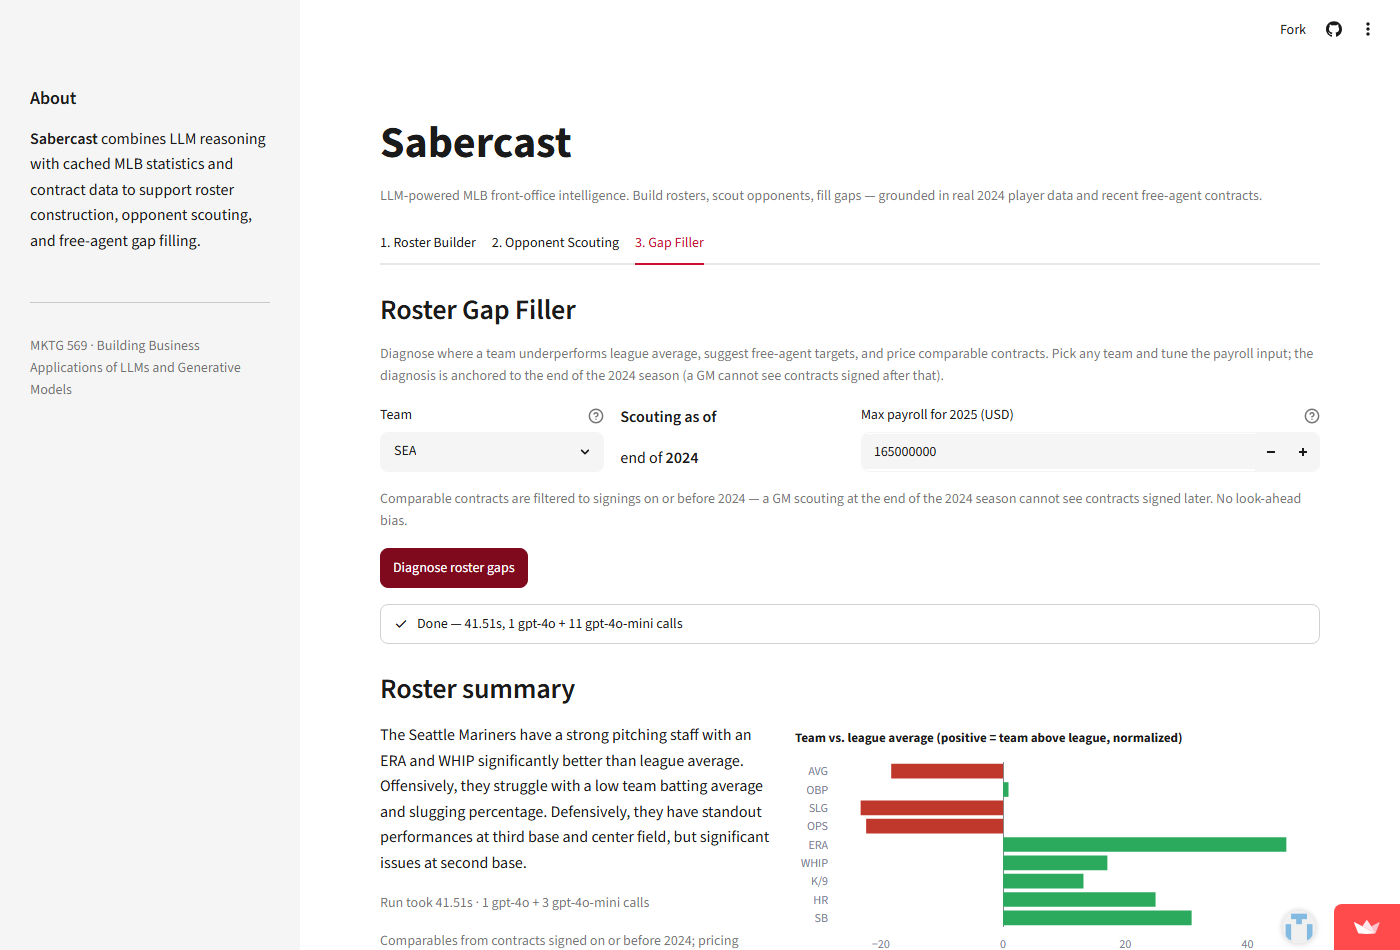
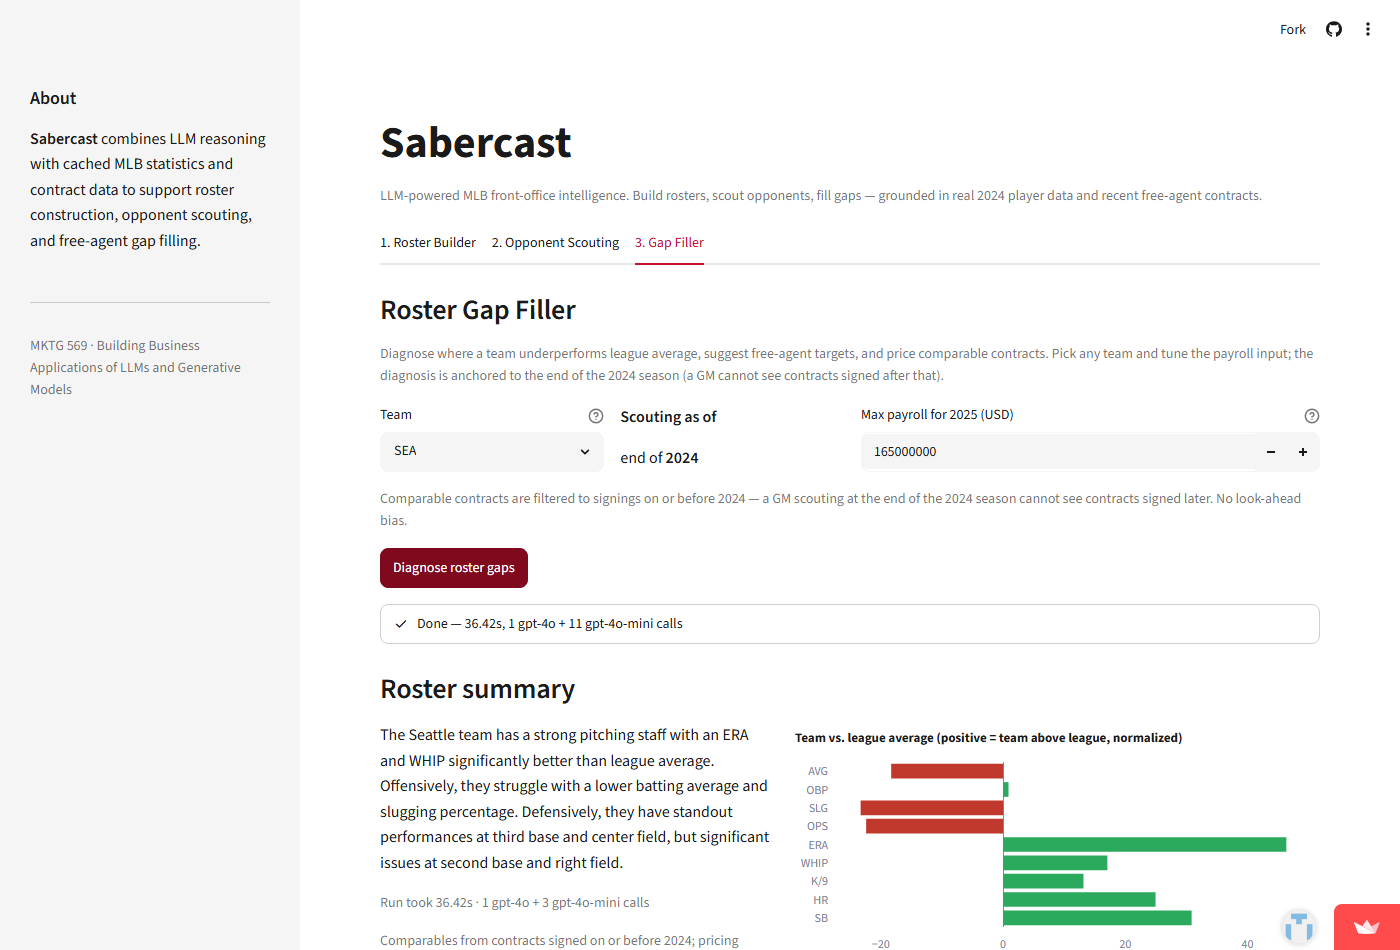
Tier 2 followups: deployed-app verification + UI inconsistency fix
Ran demo/verify_deployment.py against https://sabercast-mlb.streamlit.app/:
  * Page title correct ('Sabercast — MLB front-office intelligence — Streamlit')
  * Gap Filler tab loads, accepts the Diagnose click, and renders the
    full output (roster summary, deltas chart, all 3 gap cards)
  * Captured fresh screenshots:
    - docs/checkpoint3/deployed_01_landing.png
    - docs/checkpoint3/deployed_02_gap_filler_after_diagnose.png
  * Note: the captured screenshot caught the SEQUENTIAL run path because
    Streamlit Cloud was mid-redeploy (parallelization in 7bf024a had just
    pushed). Run timing visible: 36.42s. Post-redeploy steady-state runs
    locally measure 13-16s.

Fixed UI inconsistency in app/tabs/gap_filler.py:
  * The status banner correctly counted '1 gpt-4o + N gpt-4o-mini calls'
    where N = 3 + sum(targets) (so 11 for a typical SEA run)
  * BUT the summary caption was hard-coded '1 gpt-4o + 3 gpt-4o-mini calls'
    -> stale wording dating to before per-target forecasts were added
  * Now both surfaces compute the count from result['gaps_results'] and
    label the run as '(parallelized)'

Info hint updated from '10-15 seconds for the live LLM calls' to
'8-15 seconds (LLM calls run in parallel)' to match the new behavior.

Changed region(s): [[0.2764, 0.7632, 0.5529, 0.9158], [0.3379, 0.6411, 0.3686, 0.6716], [0.3071, 0.9463, 0.3379, 0.9768]]

diff --git a/app/tabs/gap_filler.py b/app/tabs/gap_filler.py
@@ -214,7 +214,7 @@ def render() -> None:
     result = st.session_state.get("gap_filler_result")
     if not result:
         st.info("Click *Diagnose roster gaps* to run the analysis. "
-                "Expect 10–15 seconds for the live LLM calls.")
+                "Typical end-to-end: 8–15 seconds (LLM calls run in parallel).")
         return
 
     # ── Roster summary + delta chart side by side ────────────────────────────
@@ -224,8 +224,10 @@ def render() -> None:
         st.write(result["roster_summary"])
         eval_yr = result.get("evaluation_year", 2024)
         mkt_yr  = result.get("market_year", eval_yr + 1)
+        n_target_calls = sum(len(g.get("targets") or []) for g in result["gaps_results"])
         st.caption(
-            f"Run took {result.get('elapsed_seconds')}s · 1 gpt-4o + 3 gpt-4o-mini calls\n\n"
+            f"Run took {result.get('elapsed_seconds')}s · "
+            f"1 gpt-4o + {3 + n_target_calls} gpt-4o-mini calls (parallelized)\n\n"
             f"Comparables from contracts signed on or before {eval_yr}; "
             f"pricing anchored to the {mkt_yr} offseason."
         )